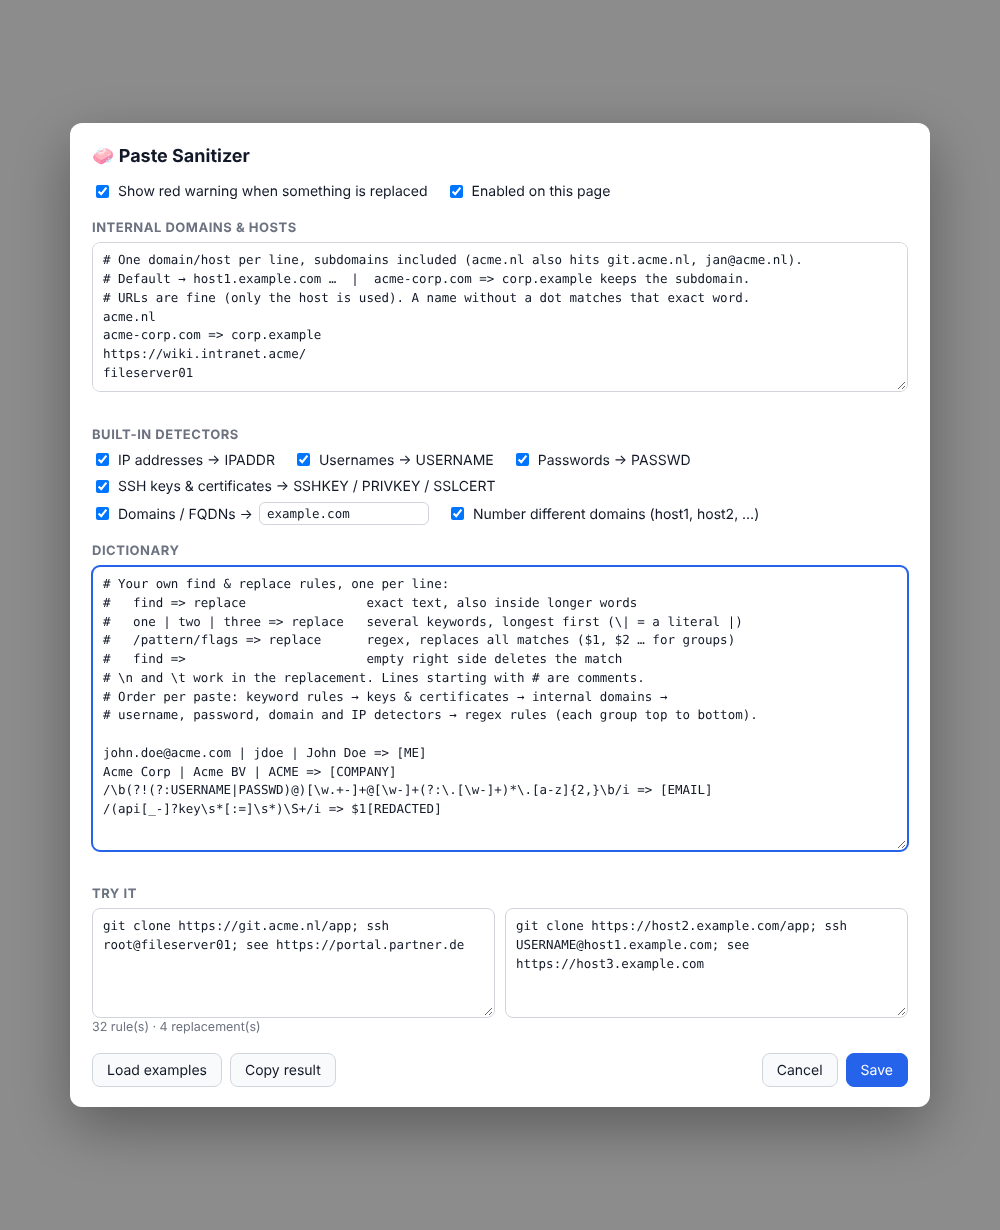
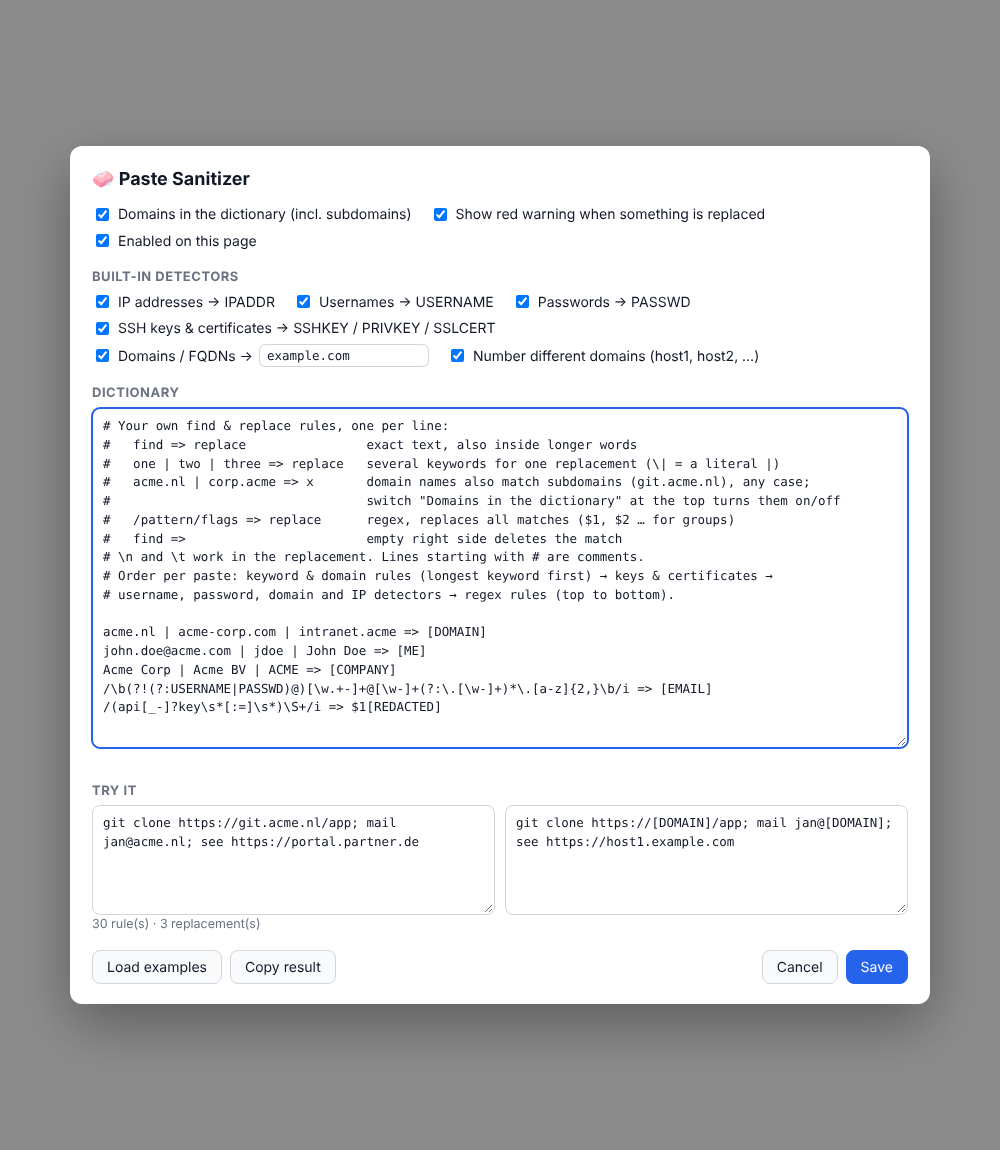
Replace separate internal-domains list with domain rules in the dictionary
Domain-name keywords in dictionary rules (acme.nl | corp.acme => [DOMAIN])
now match their subdomains in any case, as whole names only. A switch at
the top of the settings panel turns these domain rules on or off.
Keyword and domain rules run longest keyword first, so specific values
like an e-mail address win over a domain or a short keyword.

Claude-Session: https://claude.ai/code/session_01Q6qhWMeYZ2isu43vZUxEEK

Changed region(s): [[0.062, 0.0913, 0.93, 0.913], [0.496, 0.7, 0.899, 0.7913], [0.806, 0.4261, 0.837, 0.4565]]

diff --git a/paste-sanitizer.user.js b/paste-sanitizer.user.js
@@ -21,31 +21,24 @@
   // ---------------------------------------------------------------------------
   const DEFAULT_RULES = `# Your own find & replace rules, one per line:
 #   find => replace                exact text, also inside longer words
-#   one | two | three => replace   several keywords, longest first (\\| = a literal |)
+#   one | two | three => replace   several keywords for one replacement (\\| = a literal |)
+#   acme.nl | corp.acme => x       domain names also match subdomains (git.acme.nl), any case;
+#                                  switch "Domains in the dictionary" at the top turns them on/off
 #   /pattern/flags => replace      regex, replaces all matches ($1, $2 … for groups)
 #   find =>                        empty right side deletes the match
 # \\n and \\t work in the replacement. Lines starting with # are comments.
-# Order per paste: keyword rules → keys & certificates → internal domains →
-# username, password, domain and IP detectors → regex rules (each group top to bottom).
+# Order per paste: keyword & domain rules (longest keyword first) → keys & certificates →
+# username, password, domain and IP detectors → regex rules (top to bottom).
 
+acme.nl | acme-corp.com | intranet.acme => [DOMAIN]
 john.doe@acme.com | jdoe | John Doe => [ME]
 Acme Corp | Acme BV | ACME => [COMPANY]
 /\\b(?!(?:USERNAME|PASSWD)@)[\\w.+-]+@[\\w-]+(?:\\.[\\w-]+)*\\.[a-z]{2,}\\b/i => [EMAIL]
 /(api[_-]?key\\s*[:=]\\s*)\\S+/i => $1[REDACTED]
 `;
 
-  const DEFAULT_DOMAINS = `# One domain/host per line, subdomains included (acme.nl also hits git.acme.nl, jan@acme.nl).
-# Default → host1.example.com …  |  acme-corp.com => corp.example keeps the subdomain.
-# URLs are fine (only the host is used). A name without a dot matches that exact word.
-acme.nl
-acme-corp.com => corp.example
-https://wiki.intranet.acme/
-fileserver01
-`;
-
   const DEFAULTS = {
     rulesText: DEFAULT_RULES,
-    domainsText: DEFAULT_DOMAINS,
     notify: true,
     detectIP: true,
     detectFQDN: true,
@@ -54,6 +47,7 @@ fileserver01
     detectUser: true,
     detectPass: true,
     detectKeys: true,
+    dictDomains: true,
     disabledHosts: [],
   };
 
@@ -67,6 +61,20 @@ fileserver01
   // ---------------------------------------------------------------------------
   const unescape = (s) =>
     (s || '').replace(/\\(n|t|\\)/g, (_, c) => (c === 'n' ? '\n' : c === 't' ? '\t' : '\\'));
+
+  // A keyword that is a domain name (acme.nl, *.corp.acme) also matches its subdomains,
+  // in any case, but only as a whole name: notacme.nl and acme.nl.evil.com are not hit.
+  const isDomainKeyword = (k) =>
+    /^(?:\*\.)?[a-z0-9](?:[a-z0-9-]*[a-z0-9])?(?:\.[a-z0-9](?:[a-z0-9-]*[a-z0-9])?)+\.?$/i.test(k) &&
+    /[a-z]/i.test(k.split('.').filter(Boolean).pop()); // last label has a letter → not an IP / version
+  function domainRule(find, replace) {
+    const name = find.toLowerCase().replace(/^\*\./, '').replace(/\.$/, '');
+    const esc = name.replace(/[.*+?^${}()|[\]\\]/g, '\\$&');
+    return {
+      type: 'domain', find: name, replace,
+      re: new RegExp(`(?<![\\w.-])(?:[a-z0-9](?:[a-z0-9-]*[a-z0-9])?\\.)*${esc}(?![\\w-]|\\.[a-z0-9])`, 'gi'),
+    };
+  }
 
   function parseRules(text) {
     const rules = [];
@@ -95,7 +103,7 @@ fileserver01
           .sort((a, b) => b.length - a.length);
         if (!keys.length) errors.push(`Line ${i + 1}: no keywords before "=>"`);
         const replace = unescape(lit[2]);
-        for (const find of keys) rules.push({ type: 'literal', find, replace });
+        for (const find of keys) rules.push(isDomainKeyword(find) ? domainRule(find, replace) : { type: 'literal', find, replace });
       } else {
         errors.push(`Line ${i + 1}: expected "find => replace"`);
       }
@@ -172,69 +180,23 @@ fileserver01
   function domainMapper(o) {
     const dummy = (o.fqdnDummy || 'example.com').trim().toLowerCase();
     const seen = new Map();
-    const done = new Set(); // names produced by the internal-domain list: leave alone
     const isDummy = (d) => d === dummy || d.endsWith('.' + dummy);
     return {
-      reset: () => { seen.clear(); done.clear(); },
-      protect: (name) => done.add(name.toLowerCase()),
-      isProtected: (name) => done.has(name.toLowerCase().replace(/\.$/, '')),
+      reset: () => seen.clear(),
       map(name) {
         const key = name.toLowerCase().replace(/\.$/, '');
-        if (done.has(key) || isDummy(key) || key === 'localhost' || /^(?:USERNAME|PASSWD|IPADDR)$/i.test(key)) return null;
+        if (isDummy(key) || key === 'localhost' || /^(?:USERNAME|PASSWD|IPADDR)$/i.test(key)) return null;
         if (!seen.has(key)) seen.set(key, o.fqdnNumbered ? `host${seen.size + 1}.${dummy}` : dummy);
         return seen.get(key);
       },
     };
   }
 
-  // ---- Internal domains & hosts list -----------------------------------------
-  function parseDomains(text) {
-    const entries = [];
-    const errors = [];
-    (text || '').split(/\r?\n/).forEach((raw, i) => {
-      const line = raw.trim();
-      if (!line || line.startsWith('#')) return;
-      const m = line.match(/^(.*?)(?:\s+=>(?:\s+(.*))?)?$/);
-      const name = m[1].trim().toLowerCase()
-        .replace(/^[a-z][\w+.-]*:\/\//, '') // scheme
-        .replace(/^[^@\/]*@/, '')            // user:pass@
-        .replace(/[\/?#].*$/, '')            // path, query
-        .replace(/:\d+$/, '')                // port
-        .replace(/^\*\./, '')                // *.acme.nl
-        .replace(/\.$/, '');
-      if (!/^[a-z0-9](?:[a-z0-9.-]*[a-z0-9])?$/.test(name)) {
-        errors.push(`Line ${i + 1}: "${m[1]}" is not a domain or host name`);
-        return;
-      }
-      entries.push({ name, replace: (m[2] || '').trim() || null });
-    });
-    entries.sort((a, b) => b.name.length - a.name.length); // corp.acme.nl before acme.nl
-    return { entries, errors };
-  }
-
-  function internalDomainRules(entries, dm) {
-    return entries.map(({ name, replace }) => {
-      const esc = name.replace(/[.*+?^${}()|[\]\\]/g, '\\$&');
-      const hasDot = name.includes('.');
-      const sub = hasDot ? '((?:[a-z0-9](?:[a-z0-9-]*[a-z0-9])?\\.)*)' : '()';
-      return {
-        type: 'fn', label: 'INTERNAL', reset: dm.reset,
-        re: new RegExp(`(?<![\\w.-])${sub}${esc}(?![\\w-]|\\.[a-z0-9])`, 'gi'),
-        fn: (m, subdomain) => {
-          if (dm.isProtected(m)) return m;
-          const out = replace ? (hasDot ? subdomain : '') + replace : dm.map(m);
-          if (!out) return m;
-          dm.protect(out);
-          return out;
-        },
-      };
-    });
-  }
-
-  function fqdnRules(o, dm) {
+  function fqdnRules(o) {
+    const dm = domainMapper(o);
     return [
       { // host part of any URL: https://anything.here/...
-        type: 'fn', label: 'FQDN', re: URL_HOST,
+        type: 'fn', label: 'FQDN', reset: dm.reset, re: URL_HOST,
         fn: (m, scheme, userinfo, hostName) => {
           if (LOOKS_LIKE_IP.test(hostName) || !/[a-z]/i.test(hostName)) return m;
           const d = dm.map(hostName);
@@ -306,10 +268,7 @@ fileserver01
 
   function builtinRules(o) {
     const r = [];
-    const dm = domainMapper(o); // shared, so a domain gets the same hostN everywhere in one paste
-    r.push({ type: 'fn', reset: dm.reset, re: /(?!)/g, fn: (m) => m }); // resets the mapper per paste
     if (o.detectKeys) r.push(...keyRules()); // first: key data must not be picked apart by other detectors
-    r.push(...internalDomainRules(o.domainEntries || [], dm));
     // scheme://user:pass@host
     if (o.detectUser || o.detectPass) {
       r.push({
@@ -339,7 +298,7 @@ fileserver01
         fn: (m, pre) => pre + TOK.user + '@',
       });
     }
-    if (o.detectFQDN) r.push(...fqdnRules(o, dm));
+    if (o.detectFQDN) r.push(...fqdnRules(o));
     if (o.detectIP) {
       r.push({ type: 'regex', re: IPV6, replace: TOK.ip });
       r.push({ type: 'regex', re: IPV4, replace: TOK.ip });
@@ -347,16 +306,17 @@ fileserver01
     return r;
   }
   const currentBuiltinOpts = () => ({
-    detectIP: get('detectIP'), detectUser: get('detectUser'), detectPass: get('detectPass'), detectKeys: get('detectKeys'),
+    detectIP: get('detectIP'), detectUser: get('detectUser'), detectPass: get('detectPass'), detectKeys: get('detectKeys'), dictDomains: get('dictDomains'),
     detectFQDN: get('detectFQDN'), fqdnDummy: get('fqdnDummy'), fqdnNumbered: get('fqdnNumbered'),
-    domainEntries: parseDomains(get('domainsText')).entries,
   });
 
-  // Keyword rules first (your exact values win), then built-in detectors, then regex rules
-  const orderRules = (dict, builtins) => [
-    ...dict.filter((r) => r.type === 'literal'),
+  // Keyword & domain rules first (your exact values win), then built-in detectors, then regex rules
+  // keyword & domain rules longest first, so john.doe@acme.com beats acme.com and intranet.acme beats ACME
+  const orderRules = (dict, builtins, domainsOn = true) => [
+    ...dict.filter((r) => r.type === 'literal' || (r.type === 'domain' && domainsOn))
+      .sort((a, b) => b.find.length - a.find.length),
     ...builtins,
-    ...dict.filter((r) => r.type !== 'literal'),
+    ...dict.filter((r) => r.type === 'regex'),
   ];
 
   let cache = { key: null, rules: [] };
@@ -364,7 +324,7 @@ fileserver01
     const text = get('rulesText');
     const opts = currentBuiltinOpts();
     const key = text + '\u0000' + JSON.stringify(opts);
-    if (key !== cache.key) cache = { key, rules: orderRules(parseRules(text).rules, builtinRules(opts)) };
+    if (key !== cache.key) cache = { key, rules: orderRules(parseRules(text).rules, builtinRules(opts), opts.dictDomains) };
     return cache.rules;
   }
 
@@ -403,7 +363,7 @@ fileserver01
         const m = text.match(r.re);
         if (m) {
           add(labelOf(r.replace), m.length);
-          text = text.replace(r.re, r.replace);
+          text = r.type === 'domain' ? text.replace(r.re, () => r.replace) : text.replace(r.re, r.replace);
         }
       }
     }
@@ -574,8 +534,7 @@ fileserver01
     input[type=text] { font: 12.5px ui-monospace, Menlo, Consolas, monospace; padding: 3px 7px; width: 170px;
       border: 1px solid #d1d5db; border-radius: 6px; color: #111827; background: #fff; }
     input[type=text]:focus, textarea:focus { outline: 2px solid #2563eb; outline-offset: -1px; }
-    .rules { height: 285px; }
-    .domains { height: 150px; }
+    .rules { height: 340px; }
     .err { color: #b91c1c; font-size: 12.5px; white-space: pre-wrap; min-height: 1em; margin-top: 4px; }
     .grid { display: grid; grid-template-columns: 1fr 1fr; gap: 10px; }
     .grid textarea { height: 110px; }
@@ -596,8 +555,6 @@ fileserver01
 
     const rulesTa = h('textarea', { className: 'rules', spellcheck: false, value: get('rulesText') });
     const errBox = h('div', { className: 'err' });
-    const domainsTa = h('textarea', { className: 'domains', spellcheck: false, value: get('domainsText') });
-    const domErrBox = h('div', { className: 'err' });
     const testIn = h('textarea', { placeholder: 'Paste sample text here…', spellcheck: false });
     const testOut = h('textarea', { readOnly: true, placeholder: 'Sanitized result' });
     const testInfo = h('div', { className: 'muted' });
@@ -607,6 +564,7 @@ fileserver01
       return { input, el: h('label', {}, input, labelText) };
     };
     const notifyCb = cb('notify', 'Show red warning when something is replaced');
+    const domCb = cb('dictDomains', 'Domains in the dictionary (incl. subdomains)');
     const ipCb = cb('detectIP', 'IP addresses → IPADDR');
     const userCb = cb('detectUser', 'Usernames → USERNAME');
     const passCb = cb('detectPass', 'Passwords → PASSWD');
@@ -619,31 +577,27 @@ fileserver01
     function refresh() {
       const parsed = parseRules(rulesTa.value);
       const errors = parsed.errors;
-      const doms = parseDomains(domainsTa.value);
-      domErrBox.textContent = doms.errors.join('\n');
       const rules = orderRules(parsed.rules, builtinRules({
         detectIP: ipCb.input.checked, detectUser: userCb.input.checked, detectPass: passCb.input.checked,
         detectKeys: keysCb.input.checked,
         detectFQDN: fqdnCb.input.checked, fqdnDummy: fqdnIn.value, fqdnNumbered: numCb.input.checked,
-        domainEntries: doms.entries,
-      }));
+      }), domCb.input.checked);
       errBox.textContent = errors.join('\n');
       const { text, count } = sanitize(testIn.value, rules);
       testOut.value = text;
       testInfo.textContent = testIn.value
         ? `${rules.length} rule(s) · ${count} replacement(s)`
-        : `${doms.entries.length} internal domain(s) · ${parsed.rules.length} dictionary rule(s) + built-in detectors`;
+        : `${parsed.rules.length} dictionary rule(s) + built-in detectors`;
     }
     rulesTa.addEventListener('input', refresh);
-    domainsTa.addEventListener('input', refresh);
-    for (const c of [ipCb, userCb, passCb, keysCb, fqdnCb, numCb]) c.input.addEventListener('change', refresh);
+    for (const c of [domCb, ipCb, userCb, passCb, keysCb, fqdnCb, numCb]) c.input.addEventListener('change', refresh);
     fqdnIn.addEventListener('input', refresh);
     testIn.addEventListener('input', refresh);
 
     function save() {
       set('rulesText', rulesTa.value);
-      set('domainsText', domainsTa.value);
       set('notify', notifyCb.input.checked);
+      set('dictDomains', domCb.input.checked);
       set('detectIP', ipCb.input.checked);
       set('detectUser', userCb.input.checked);
       set('detectPass', passCb.input.checked);
@@ -660,10 +614,7 @@ fileserver01
 
     const panel = h('div', { className: 'p' },
       h('h2', {}, '🧼 Paste Sanitizer'),
-      h('div', { className: 'opts' }, notifyCb.el, siteCb.el),
-      h('h3', {}, 'Internal domains & hosts'),
-      domainsTa,
-      domErrBox,
+      h('div', { className: 'opts' }, domCb.el, notifyCb.el, siteCb.el),
       h('h3', {}, 'Built-in detectors'),
       h('div', { className: 'opts' }, ipCb.el, userCb.el, passCb.el, keysCb.el),
       h('div', { className: 'opts', style: 'margin-top:6px' },
@@ -675,7 +626,7 @@ fileserver01
       h('div', { className: 'grid' }, testIn, testOut),
       testInfo,
       h('div', { className: 'row' },
-        h('button', { onclick: () => { rulesTa.value = DEFAULT_RULES; domainsTa.value = DEFAULT_DOMAINS; refresh(); } }, 'Load examples'),
+        h('button', { onclick: () => { rulesTa.value = DEFAULT_RULES; refresh(); } }, 'Load examples'),
         h('button', { onclick: () => { navigator.clipboard?.writeText(testOut.value); } }, 'Copy result'),
         h('span', { className: 'spacer' }),
         h('button', { onclick: close }, 'Cancel'),

diff --git a/README.md b/README.md
@@ -12,32 +12,6 @@ A Tampermonkey userscript that sanitizes text **when you paste it** in the brows
 
 Open the settings via the Tampermonkey menu → **⚙ Edit dictionary & settings**.
 
-## Internal domains & hosts
-
-The list at the top of the settings panel is for your own domains, internal URLs and host names. Everything on it is always replaced, even when its ending isn't recognised by the domain detector (e.g. `.acme`) or the detector is switched off.
-
-```
-acme.nl
-acme-corp.com => corp.example
-https://wiki.intranet.acme/
-fileserver01
-```
-
-| Pasted | Becomes |
-|---|---|
-| `https://git.acme.nl/repo`, `jan@acme.nl` | `https://host1.example.com/repo`, `jan@host2.example.com` |
-| `ci.build.acme-corp.com:8080` | `ci.build.corp.example:8080` (explicit replacement keeps the subdomain) |
-| `wiki.intranet.acme/pages`, `WIKI.INTRANET.ACME` | `host3.example.com/pages` (case doesn't matter) |
-| `\\fileserver01\share` | `\\host4.example.com\share` |
-| `notacme.nl`, `fileserver012` | not matched by the list (the domain detector may still replace `notacme.nl`) |
-
-- One entry per line. Subdomains are included: `acme.nl` also matches `git.acme.nl` and `jan@acme.nl`.
-- Without `=>`, names get the dummy domain from the detector settings (`host1.example.com`, …), numbered consistently with the domain detector.
-- `domain => replacement` swaps only the domain part and keeps the subdomain.
-- URLs are accepted: only the host is used (scheme, login, port and path are ignored). `*.acme.nl` works like `acme.nl`.
-- A name without a dot (`fileserver01`) matches that exact word, in any case.
-- Since the repo is public, the examples are fake. Your real list lives only in Tampermonkey's storage.
-
 ## Built-in detectors
 
 Each one can be switched off in settings. They run after your keyword rules and before your regex rules (see [Order](#order)).
@@ -63,10 +37,11 @@ Notes:
 
 ## Dictionary format
 
-One rule per line, top to bottom:
+One rule per line:
 
 ```
 # comment
+acme.nl | acme-corp.com | intranet.acme => [DOMAIN]
 Acme Corp | Acme BV | ACME => [COMPANY]
 john.doe@acme.com | jdoe | John Doe => [ME]
 /(api[_-]?key\s*[:=]\s*)\S+/i => $1[REDACTED]
@@ -75,17 +50,16 @@ secret-word =>
 
 - `find => replace` replaces every exact match.
 - `one | two | three => replace` lists several keywords for the same replacement. Spaces around `|` are ignored, longer keywords are tried first (so `Acme Corp` is replaced whole before `Acme`), and `\|` matches a literal `|`.
+- **Domain names** in a keyword rule (like `acme.nl` above) also match all their subdomains, in any case, as a whole name. `https://git.acme.nl/x`, `jan@acme.nl` and `WIKI.INTRANET.ACME` become `https://[DOMAIN]/x`, `jan@[DOMAIN]` and `[DOMAIN]`, while `notacme.nl` and `acme.nl.evil.com` are not hit by this rule. The **Domains in the dictionary** switch at the top of the settings panel turns these domain rules on or off. `*.acme.nl` works the same as `acme.nl`.
 - `/pattern/flags => replace` is a JavaScript regex, always replacing all matches. Use `$1`, `$2` for groups.
 - Empty right side deletes the match. `\n` and `\t` work in the replacement.
 - The **Try it** box in settings shows the result live while you edit.
 
 ### Order
 
-1. **Keyword rules** (`find => replace`, `a | b => x`): your exact values win, so `john.doe@acme.com => [ME]` is applied before the domain detector can touch the email address.
-2. **Built-in detectors and your internal domains**: keys and certificates first, then your internal domains list, then username, password, domain and IP.
-3. **Regex rules** (`/pattern/ => x`): catch-alls like `[EMAIL]` mop up whatever is left.
-
-Within each group, rules run top to bottom.
+1. **Keyword and domain rules** (`find => replace`, `a | b => x`, `acme.nl => [DOMAIN]`), **longest keyword first**: your exact values win, so `john.doe@acme.com => [ME]` is applied before a domain rule for `acme.com` or the domain detector can touch the address, and `intranet.acme` is replaced before a shorter keyword like `ACME`.
+2. **Built-in detectors**: keys and certificates first, then username, password, domain and IP.
+3. **Regex rules** (`/pattern/ => x`), top to bottom: catch-alls like `[EMAIL]` mop up whatever is left.
 
 ## Behaviour
 
